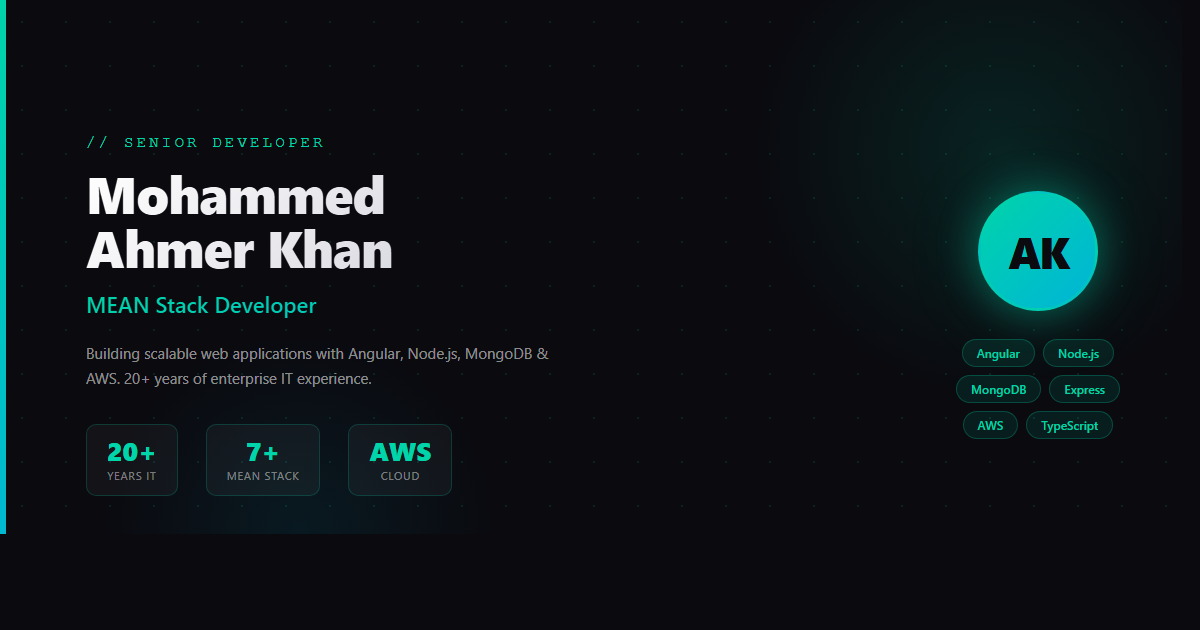
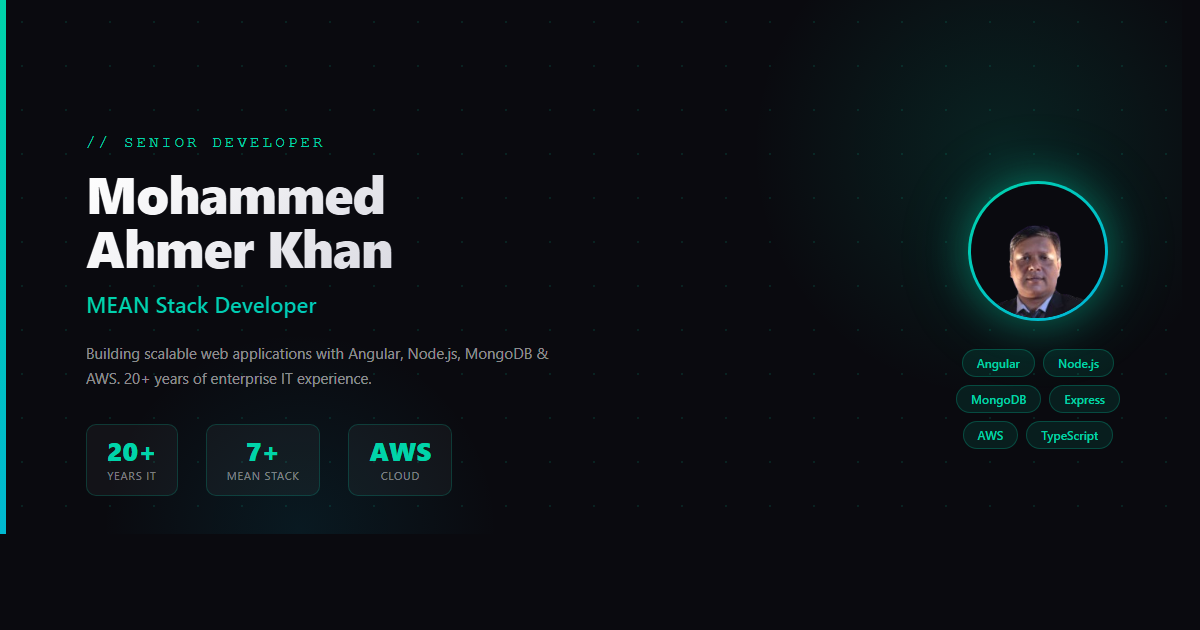
Add profile photo to About section and improve og:image
- Added profile photo in circular frame with cyan glow border and pulsing ring
- Used raw profile-photo.png (RGBA transparent PNG) for crisp quality
- CSS: overflow:hidden circle + top:-60px offset to center on face
- Regenerated og:image with real profile photo replacing AK monogram
- Updated CLAUDE.md and AGENTS.md

Changed region(s): [[0.8017, 0.2714, 0.925, 0.5127], [0.8017, 0.5429, 0.925, 0.7238]]

diff --git a/profile-card.html b/profile-card.html
@@ -1,0 +1,127 @@
+<!DOCTYPE html>
+<html lang="en">
+<head>
+  <meta charset="UTF-8">
+  <style>
+    * { margin: 0; padding: 0; box-sizing: border-box; }
+
+    body {
+      width: 500px;
+      height: 500px;
+      overflow: hidden;
+      background: #0d0d1a;
+      display: flex;
+      align-items: center;
+      justify-content: center;
+      position: relative;
+    }
+
+    /* Dot grid */
+    body::before {
+      content: '';
+      position: absolute;
+      inset: 0;
+      background-image: radial-gradient(circle, rgba(0,212,170,0.10) 1px, transparent 1px);
+      background-size: 36px 36px;
+      z-index: 0;
+    }
+
+    /* Ambient glow behind person */
+    .glow-bg {
+      position: absolute;
+      width: 420px;
+      height: 420px;
+      border-radius: 50%;
+      background: radial-gradient(circle,
+        rgba(0, 180, 216, 0.12) 0%,
+        rgba(0, 212, 170, 0.08) 40%,
+        transparent 70%
+      );
+      z-index: 0;
+    }
+
+    /* Outer decorative ring */
+    .ring-outer {
+      position: absolute;
+      width: 420px;
+      height: 420px;
+      border-radius: 50%;
+      border: 1px solid rgba(0, 212, 170, 0.15);
+      z-index: 0;
+    }
+
+    /* Photo circle container */
+    .photo-circle {
+      position: relative;
+      z-index: 2;
+      width: 370px;
+      height: 370px;
+      border-radius: 50%;
+      overflow: hidden;
+      border: 3px solid transparent;
+      background:
+        linear-gradient(#0d0d1a, #0d0d1a) padding-box,
+        linear-gradient(135deg, #00d4aa, #00b4d8, #00d4aa) border-box;
+      box-shadow:
+        0 0 30px rgba(0, 212, 170, 0.25),
+        0 0 60px rgba(0, 212, 170, 0.10),
+        inset 0 0 30px rgba(0, 0, 0, 0.4);
+    }
+
+    .photo-circle img {
+      position: absolute;
+      width: 170%;
+      left: 50%;
+      top: -60%;
+      transform: translateX(-50%);
+      display: block;
+    }
+
+    /* Subtle bottom gradient fade inside circle */
+    .photo-circle::after {
+      content: '';
+      position: absolute;
+      bottom: 0;
+      left: 0;
+      right: 0;
+      height: 80px;
+      background: linear-gradient(to top, rgba(13,13,26,0.5), transparent);
+      border-radius: 0 0 50% 50%;
+    }
+
+    /* Small orbit dot */
+    .orbit-dot {
+      position: absolute;
+      z-index: 3;
+      width: 12px;
+      height: 12px;
+      border-radius: 50%;
+      background: #00d4aa;
+      box-shadow: 0 0 10px #00d4aa, 0 0 20px rgba(0,212,170,0.5);
+      top: 42px;
+      right: 110px;
+    }
+
+    .orbit-dot-2 {
+      position: absolute;
+      z-index: 3;
+      width: 7px;
+      height: 7px;
+      border-radius: 50%;
+      background: #00b4d8;
+      box-shadow: 0 0 8px #00b4d8;
+      bottom: 68px;
+      left: 95px;
+    }
+  </style>
+</head>
+<body>
+  <div class="glow-bg"></div>
+  <div class="ring-outer"></div>
+  <div class="orbit-dot"></div>
+  <div class="orbit-dot-2"></div>
+  <div class="photo-circle">
+    <img src="file:///D:/laptopData/ai%20claude/my-portfolio/my-profile-image.png" alt="Mohammed Ahmer Khan">
+  </div>
+</body>
+</html>

diff --git a/src/app/components/about/about.component.scss b/src/app/components/about/about.component.scss
@@ -1,8 +1,84 @@
 .about-grid {
   display: grid;
-  grid-template-columns: 1.2fr 1fr;
-  gap: 60px;
-  align-items: start;
+  grid-template-columns: 360px 1fr;
+  gap: 70px;
+  align-items: center;
+}
+
+// ── Profile Photo ──────────────────────────────
+.about-photo {
+  position: relative;
+  display: flex;
+  align-items: center;
+  justify-content: center;
+  width: 340px;
+  height: 340px;
+  flex-shrink: 0;
+}
+
+// Pulsing outer ring
+.photo-ring {
+  position: absolute;
+  inset: 0;
+  border-radius: 50%;
+  border: 1px solid rgba(0, 212, 170, 0.2);
+  animation: ring-pulse 3s ease-in-out infinite;
+}
+
+@keyframes ring-pulse {
+  0%, 100% { transform: scale(1);    opacity: 0.4; }
+  50%       { transform: scale(1.05); opacity: 1;   }
+}
+
+// Glowing circle frame
+.photo-circle {
+  width: 300px;
+  height: 300px;
+  border-radius: 50%;
+  overflow: hidden;
+  position: relative;
+  z-index: 2;
+  border: 3px solid transparent;
+  background:
+    linear-gradient(var(--bg-primary), var(--bg-primary)) padding-box,
+    linear-gradient(135deg, #00d4aa, #00b4d8, #00d4aa) border-box;
+  box-shadow: 0 0 28px rgba(0, 212, 170, 0.22), 0 0 56px rgba(0, 212, 170, 0.08);
+
+  img {
+    display: block;
+    width: 100%;     // 300px — natural quality, slight downscale from 408px source
+    height: auto;
+    position: relative;
+    top: -60px;      // shift up to center on face
+  }
+}
+
+// Orbit accent dots
+.photo-dot-1 {
+  position: absolute;
+  top: 28px; right: 48px;
+  width: 10px; height: 10px;
+  border-radius: 50%;
+  background: var(--accent);
+  box-shadow: 0 0 10px var(--accent), 0 0 20px rgba(0,212,170,0.4);
+  z-index: 3;
+}
+
+.photo-dot-2 {
+  position: absolute;
+  bottom: 44px; left: 42px;
+  width: 6px; height: 6px;
+  border-radius: 50%;
+  background: var(--accent-secondary);
+  box-shadow: 0 0 8px var(--accent-secondary);
+  z-index: 3;
+}
+
+// ── Content (text + stats) ─────────────────────
+.about-content {
+  display: flex;
+  flex-direction: column;
+  gap: 40px;
 }
 
 .about-text {
@@ -43,13 +119,30 @@
   }
 }
 
-@media (max-width: 768px) {
+@media (max-width: 1024px) {
   .about-grid {
     grid-template-columns: 1fr;
     gap: 40px;
+    justify-items: center;
   }
 
-  .about-stats {
-    grid-template-columns: 1fr 1fr;
+  .about-content {
+    width: 100%;
   }
+}
+
+@media (max-width: 1024px) {
+  .about-grid {
+    grid-template-columns: 1fr;
+    gap: 40px;
+    justify-items: center;
+  }
+
+  .about-content { width: 100%; }
+}
+
+@media (max-width: 768px) {
+  .about-photo { width: 280px; height: 280px; }
+  .photo-circle { width: 240px; height: 240px; }
+  .about-stats { grid-template-columns: 1fr 1fr; }
 }

diff --git a/src/app/components/about/about.component.html b/src/app/components/about/about.component.html
@@ -6,20 +6,35 @@
     </div>
 
     <div class="about-grid">
-      <div class="about-text animate-on-scroll" appScrollAnimate>
-        <p>{{ about.summary }}</p>
-        <p>{{ about.narrative }}</p>
-        <p class="highlight-text">{{ about.currentFocus }}</p>
+
+      <!-- Profile Photo -->
+      <div class="about-photo animate-on-scroll" appScrollAnimate>
+        <div class="photo-ring"></div>
+        <div class="photo-circle">
+          <img src="profile-photo.png" alt="Mohammed Ahmer Khan">
+        </div>
+        <div class="photo-dot-1"></div>
+        <div class="photo-dot-2"></div>
       </div>
 
-      <div class="about-stats animate-on-scroll" appScrollAnimate>
-        @for (stat of about.stats; track stat.label; let i = $index) {
-          <div class="stat-card card" [class]="'stagger-' + (i + 1)">
-            <span class="stat-value gradient-text">{{ stat.value }}</span>
-            <span class="stat-label">{{ stat.label }}</span>
-          </div>
-        }
+      <!-- Text + Stats -->
+      <div class="about-content">
+        <div class="about-text animate-on-scroll" appScrollAnimate>
+          <p>{{ about.summary }}</p>
+          <p>{{ about.narrative }}</p>
+          <p class="highlight-text">{{ about.currentFocus }}</p>
+        </div>
+
+        <div class="about-stats animate-on-scroll" appScrollAnimate>
+          @for (stat of about.stats; track stat.label; let i = $index) {
+            <div class="stat-card card" [class]="'stagger-' + (i + 1)">
+              <span class="stat-value gradient-text">{{ stat.value }}</span>
+              <span class="stat-label">{{ stat.label }}</span>
+            </div>
+          }
+        </div>
       </div>
+
     </div>
   </div>
 </section>

diff --git a/og-preview.html b/og-preview.html
@@ -150,19 +150,23 @@
     }
 
     .avatar {
-      width: 120px;
-      height: 120px;
+      width: 140px;
+      height: 140px;
       border-radius: 50%;
-      background: linear-gradient(135deg, #00d4aa, #00b4d8);
-      display: flex;
-      align-items: center;
-      justify-content: center;
-      font-size: 44px;
-      font-weight: 800;
-      color: #0a0a0f;
-      letter-spacing: -2px;
+      overflow: hidden;
       box-shadow: 0 0 40px rgba(0,212,170,0.4), 0 0 80px rgba(0,212,170,0.15);
-      border: 3px solid rgba(0,212,170,0.4);
+      border: 3px solid transparent;
+      background:
+        linear-gradient(#0a0a0f, #0a0a0f) padding-box,
+        linear-gradient(135deg, #00d4aa, #00b4d8) border-box;
+      position: relative;
+    }
+    .avatar img {
+      position: absolute;
+      width: 240%;
+      left: 50%;
+      top: -68%;
+      transform: translateX(-50%);
     }
 
     .skill-tags {
@@ -236,7 +240,9 @@
     </div>
 
     <div class="right">
-      <div class="avatar">AK</div>
+      <div class="avatar">
+        <img src="file:///D:/laptopData/ai%20claude/my-portfolio/my-profile-image.png" alt="Mohammed Ahmer Khan">
+      </div>
       <div class="skill-tags">
         <div class="skill-row">
           <span class="tag">Angular</span>
